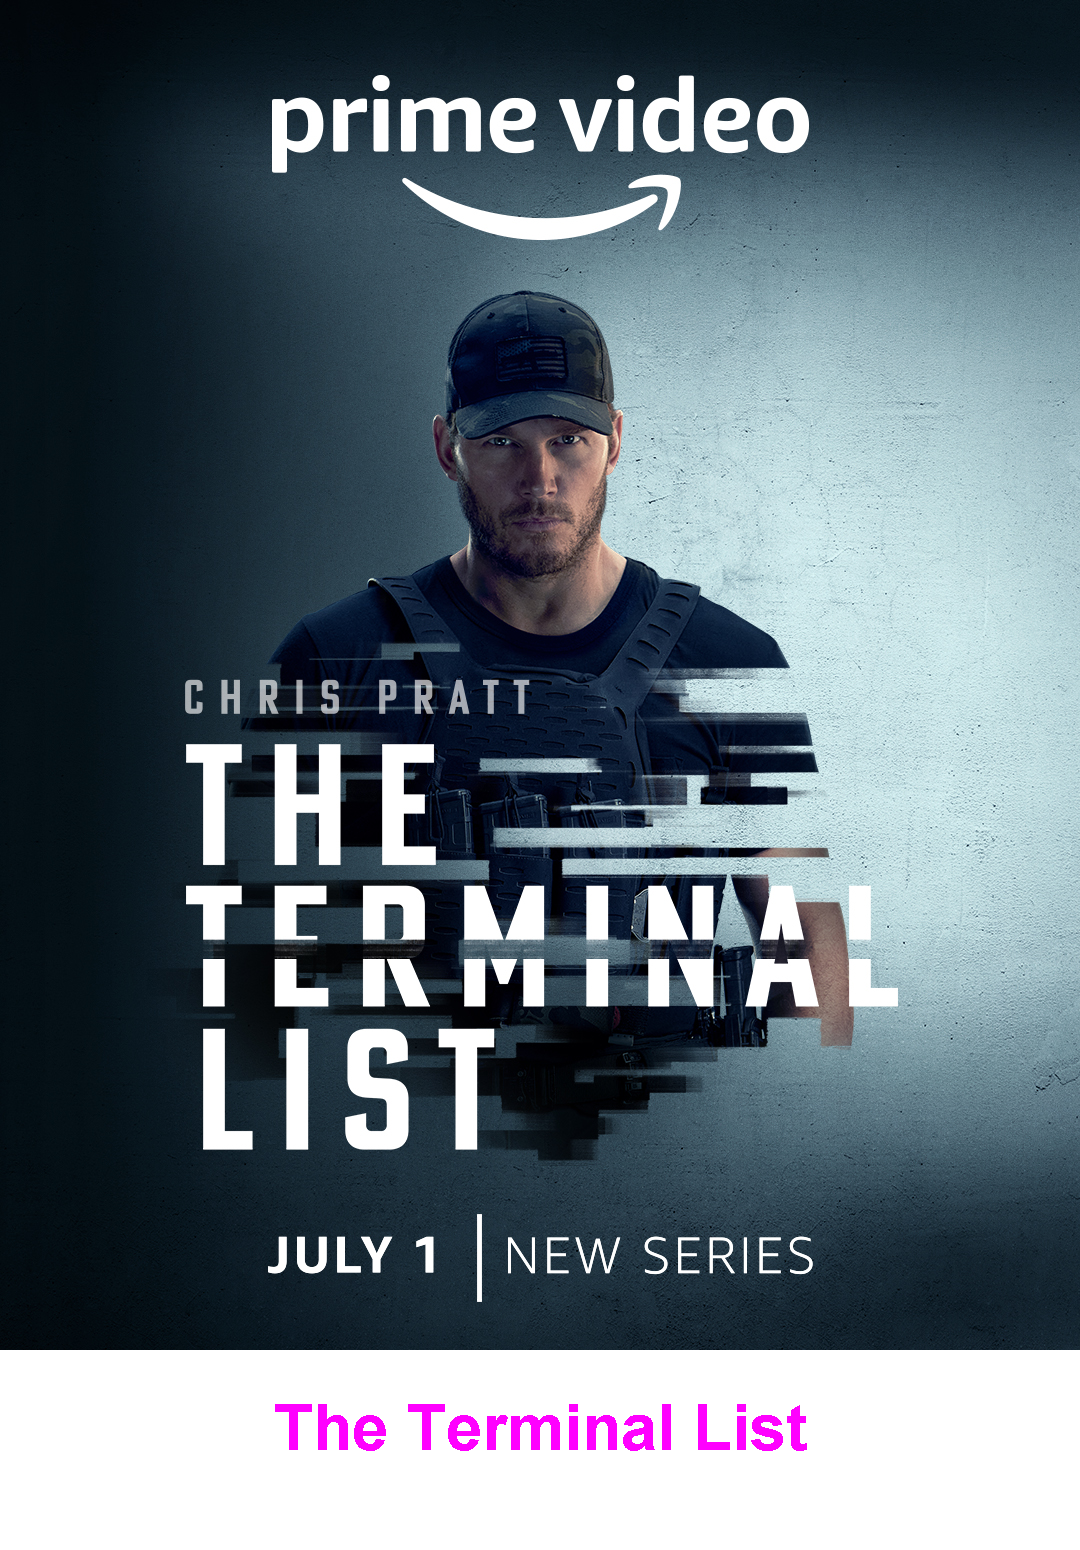
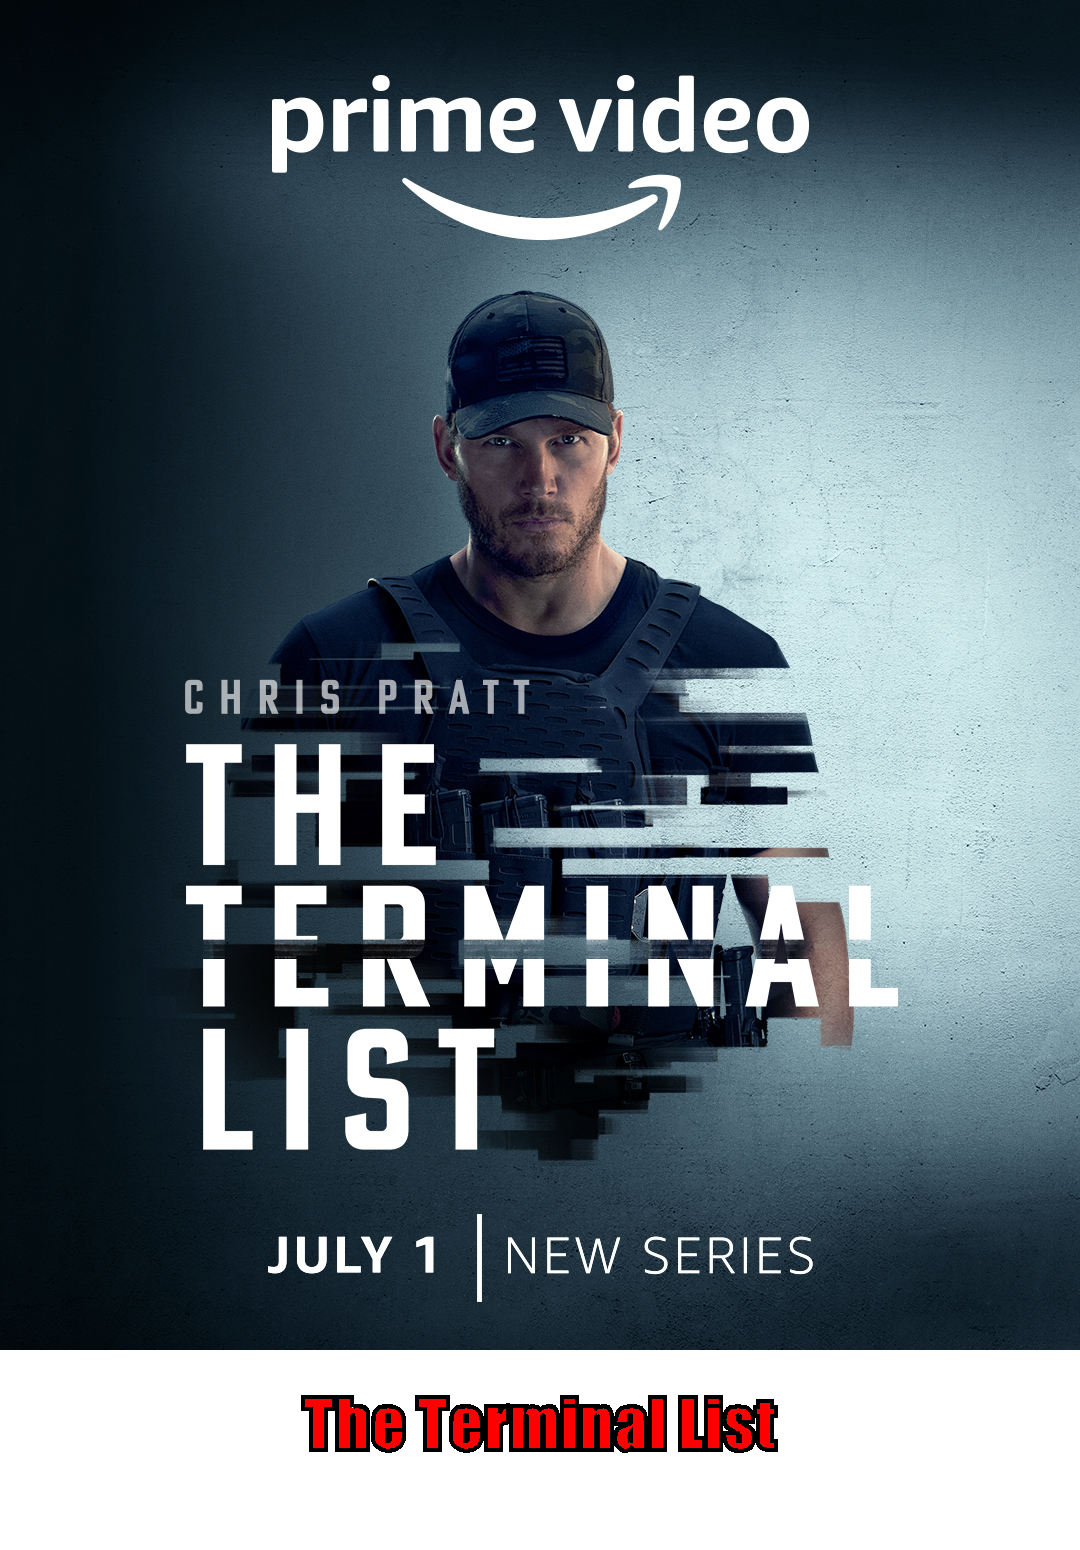
Implement font outline challange

Changed region(s): [[0.2444, 0.8981, 0.7639, 0.96]]

diff --git a/src/StickerWritter.java b/src/StickerWritter.java
@@ -1,0 +1,51 @@
+
+import java.awt.BasicStroke;
+import java.awt.Color;
+import java.awt.Font;
+import java.awt.FontMetrics;
+import java.awt.Graphics2D;
+import java.awt.Shape;
+import java.awt.font.FontRenderContext;
+import java.awt.font.TextLayout;
+import java.awt.geom.AffineTransform;
+
+public class StickerWritter {
+    
+    public void writeOnTheSticker(String stickerText, Graphics2D graphics, int imageWidth, int imageHeight, int newImageHeight) {
+
+        // configurar fonte
+        Font strickerFont = new Font("Impact", Font.BOLD, 64);
+        //graphics.setColor(Color.YELLOW);
+        graphics.setColor(Color.RED);
+        graphics.setFont(strickerFont);
+
+        // escrever na nova imagem
+        FontMetrics fm = graphics.getFontMetrics();
+        if(fm.stringWidth(stickerText) > imageWidth){
+            strickerFont = (new Font(Font.SANS_SERIF, Font.BOLD, 40));
+            graphics.setFont(strickerFont);
+            fm = graphics.getFontMetrics();
+        } //Diminui tamanho da fonte se width da string for maior do que a width da imagem
+        int xPostion = (imageWidth - fm.stringWidth(stickerText)) / 2;
+        int yPosition = imageHeight + ((newImageHeight - imageHeight) / 2);
+        graphics.drawString(stickerText, xPostion, yPosition);
+
+        // outline na fonte
+        FontRenderContext fontRenderContext = graphics.getFontRenderContext();
+        TextLayout textLayout = new TextLayout(stickerText, strickerFont, fontRenderContext);
+        
+        Shape textOutline = textLayout.getOutline(null);
+        AffineTransform transform = graphics.getTransform();
+        transform.translate(xPostion, yPosition);
+        graphics.setTransform(transform);
+
+        BasicStroke outlineStroke = new BasicStroke(imageWidth * 0.004f);
+        graphics.setStroke(outlineStroke);
+
+        graphics.setColor(Color.BLACK);
+        graphics.draw(textOutline);
+        graphics.setClip(textOutline);
+
+    }
+
+}

diff --git a/src/StickerGenerator.java b/src/StickerGenerator.java
@@ -1,6 +1,3 @@
-import java.awt.Color;
-import java.awt.Font;
-import java.awt.FontMetrics;
 import java.awt.Graphics2D;
 import java.awt.image.BufferedImage;
 import java.io.File;
@@ -37,20 +34,9 @@ public class StickerGenerator {
             //int yPositionMe = (imageHeight - imageMe.getHeight());
             //graphics.drawImage(imageMe, 0, yPositionMe, null);
 
-        // configurar fonte
-        Font strickerFont = new Font(Font.SANS_SERIF, Font.BOLD, 64);
-        graphics.setColor(Color.YELLOW);
-        graphics.setFont(strickerFont);
-
-        // escrever na nova imagem
-        FontMetrics fm = graphics.getFontMetrics();
-        if(fm.stringWidth(strickerText) > imageWidth){
-            graphics.setFont(new Font(Font.SANS_SERIF, Font.BOLD, 40));
-            fm = graphics.getFontMetrics();
-        } //Diminui tamanho da fonte se width da string for maior do que a width da imagem
-        int xPostion = (imageWidth - fm.stringWidth(strickerText)) / 2;
-        int yPosition = imageHeight + ((newImageHeight - imageHeight) / 2);
-        graphics.drawString(strickerText, xPostion, yPosition);
+        // escrever na figurinha
+        StickerWritter stickerWritter = new StickerWritter();
+        stickerWritter.writeOnTheSticker(strickerText, graphics, imageWidth, imageHeight, newImageHeight);
 
         // converter nova imagem em arquivo
         String dirPath = String.format("output/%s/%s.png", apiName, stickerName);

diff --git a/src/App.java b/src/App.java
@@ -5,12 +5,12 @@ import java.util.List;
 public class App {
     public static void main(String[] args) throws Exception {
         
-        //String url = "https://raw.githubusercontent.com/alura-cursos/imersao-java-2-api/main/MostPopularTVs.json";
-        //String apiName = "IMDB";
+        String url = "https://raw.githubusercontent.com/alura-cursos/imersao-java-2-api/main/MostPopularTVs.json";
+        String apiName = "IMDB";
         //String url = "https://raw.githubusercontent.com/alura-cursos/imersao-java-2-api/main/NASA-APOD.json";
         //String apiName = "NASA";
-        String url = "https://barboza-first-api.agreeablerock-774901b7.southcentralus.azurecontainerapps.io/barboza-first-api";
-        String apiName = "BARB";
+        //String url = "https://barboza-first-api.agreeablerock-774901b7.southcentralus.azurecontainerapps.io/barboza-first-api";
+        //String apiName = "BARB";
 
         // Conexão HTTP para buscar dados na API
         ClientHttp httpClient = new ClientHttp();

diff --git a/README.md b/README.md
@@ -53,9 +53,9 @@ Criamos o `StickerGenerator.java` para gerar figurinhas por código com os dados
 
 2- ✔ Centralizar o texto na figurinha.
 
-3- Colocar outra fonte como a Comic Sans ou a Impact, a fonte usada em memes.
+3- ✔ Colocar outra fonte como a Comic Sans ou a Impact, a fonte usada em memes.
 
-4- Colocar contorno (outline) no texto da imagem.
+4- ✔ Colocar contorno (outline) no texto da imagem.
 
 5- ✔ Colocar uma imagem de você que está fazendo esse curso sorrindo, fazendo joinha.
 
